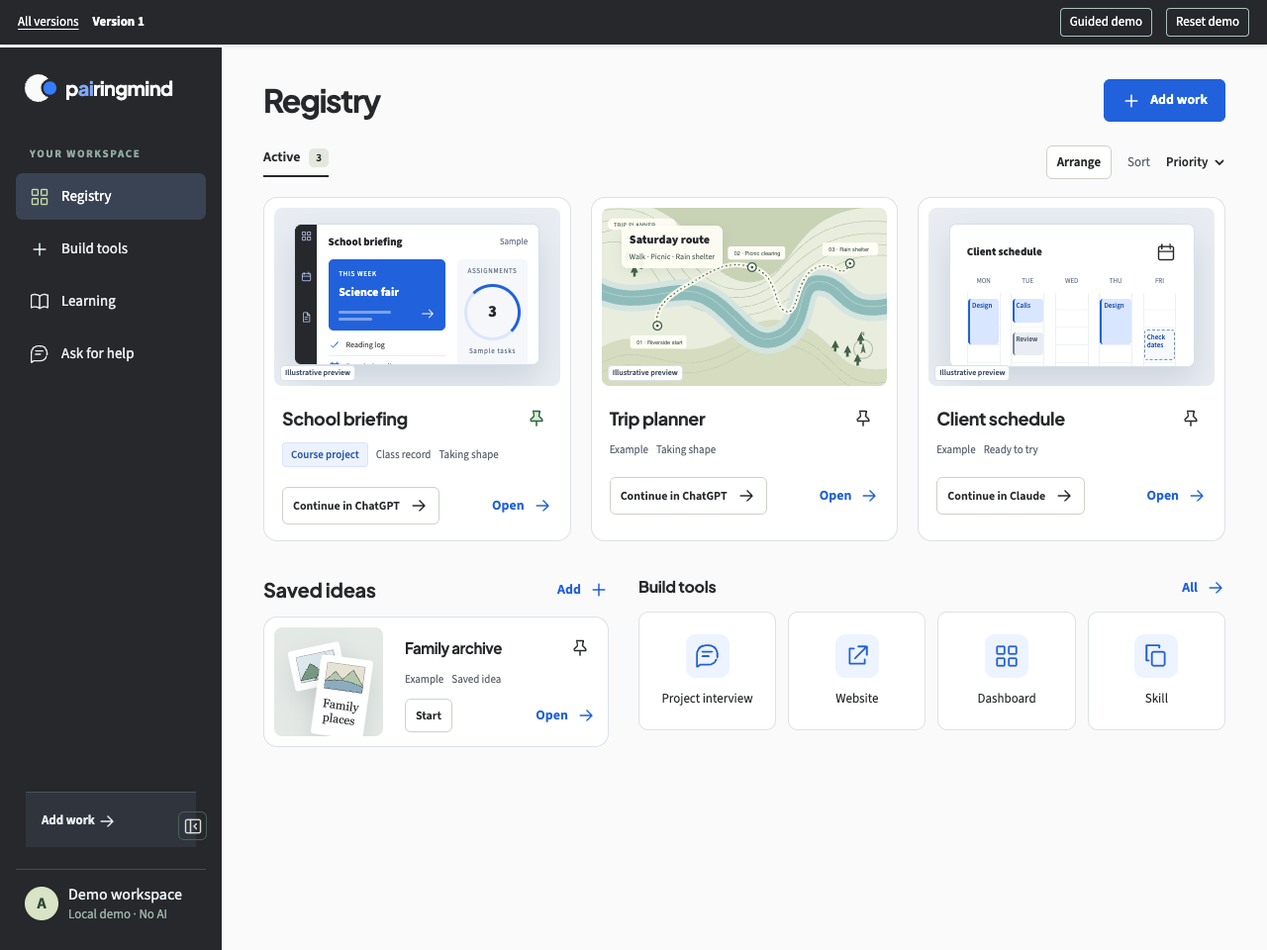
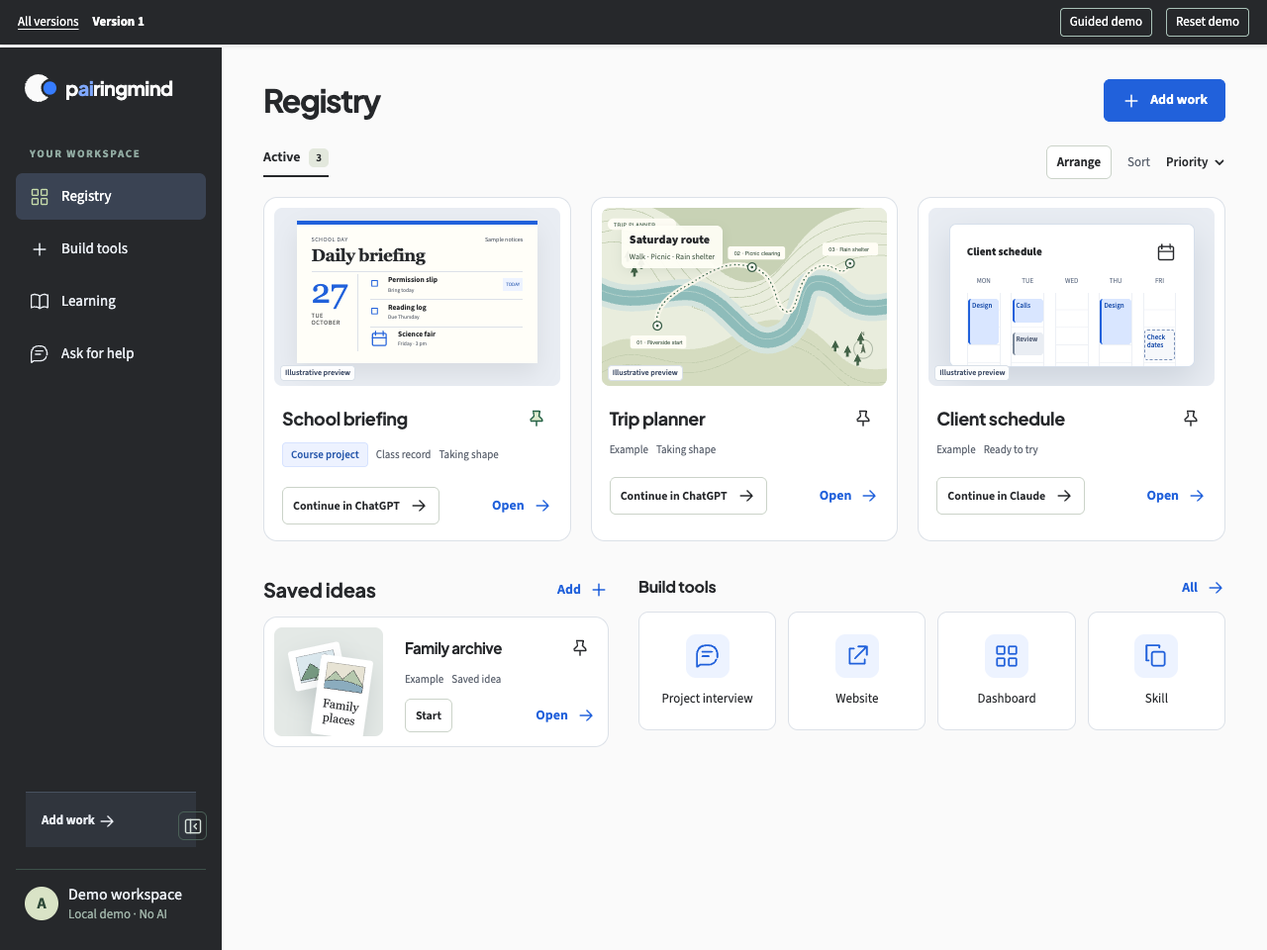
Clarify school preview and add spotlight tour navigation

Changed region(s): [[0.2188, 0.2188, 0.4062, 0.4062], [0.4062, 0.3125, 0.4375, 0.3438], [0.375, 0.3438, 0.4062, 0.375]]

diff --git a/review-tour.js b/review-tour.js
@@ -1,51 +1,106 @@
 'use strict';
 (() => {
  const version=location.pathname.includes('03-independent')?'c':location.pathname.includes('02-saas')?'b':'a';
- const names={a:'Version 1',b:'Version 2',c:'Version 3'};
  const keys={a:'pm-review-a-20261107-v2',b:'pm-review-b-20261107-v2',c:'pm-review-c-20261107-v2'};
- const id='school-briefing'; let step=0, panel=null, selected=null;
+ const id='school-briefing', project='project/'+id;
+ const reduced=matchMedia('(prefers-reduced-motion: reduce)');
+ let step=0,panel=null,selected=null,layer=null,cursor=null,mask=null,run=0,busy=false,frame=0,returnFocus=null;
  const bar=document.createElement('nav');bar.className='review-bar';bar.setAttribute('aria-label','Review versions');
  const home=document.createElement('a');home.href='../';home.textContent='All versions';bar.append(home);
- const name=document.createElement('strong');name.textContent=names[version];bar.append(name);
+ const name=document.createElement('strong');name.textContent={a:'Version 1',b:'Version 2',c:'Version 3'}[version];bar.append(name);
  function control(label,fn){const b=document.createElement('button');b.type='button';b.textContent=label;b.addEventListener('click',fn);return b;}
- bar.append(control('Guided demo',()=>{step=0;showStep();}),control('Reset demo',()=>{if(confirm('Reset this version? Local edits will be removed.')){localStorage.removeItem(keys[version]);location.href=location.pathname+'#projects';}}));document.body.append(bar);
+ const launch=control('Guided demo',()=>start());
+ bar.append(launch,control('Reset demo',()=>{if(confirm('Reset this version? Local edits will be removed.')){localStorage.removeItem(keys[version]);location.href=location.pathname+'#projects';}}));document.body.append(bar);
  const steps=[
   {title:'Registry',text:'Open the school briefing. The other entries are fictional examples.',route:'projects',target:version==='c'?'.selected-work':'[data-project-id="school-briefing"]'},
-  {title:'Preview & status',text:'The preview is illustrative. Design recorded; live data unverified.',route:'project/'+id,target:'.work-preview'},
-  {title:'Build tools',text:'Choose an approach. Copy its instructions into your AI.',route:version==='c'?'project/'+id:'tools/'+id+'/dashboard',action:version==='c'?'help':null,target:version==='c'?'#ways-help':'.build-heading'},
-  {title:'Continue',text:'Copy context, open your AI, then paste. Nothing syncs automatically.',route:version==='c'?'project/'+id:'continue/'+id,action:version==='c'?'resume':null,target:version==='c'?'#dialog':'.page-narrow'},
-  {title:'Review an update',text:'Fictional exercise. Edit, reject or accept it yourself.',route:'project/'+id,action:'demo-update',target:'#dialog'},
-  {title:'History',text:'Only accepted changes enter the saved record.',route:version==='b'?'project/'+id+'/activity':'project/'+id,action:'history',target:version==='b'?'.project-activity':version==='c'?'#main':'.history-fold'},
-  {title:'Learning',text:'Optional practice. No lesson tracking is connected.',route:version==='c'?'learning':'learn/'+id,target:'#main'},
-  {title:'Export',text:'Download the record, or return to compare the other versions.',route:'project/'+id,target:version==='c'?'[data-action="export"]':'[data-act="export"]'}
+  {title:'Preview & status',text:'The preview is illustrative. Design recorded; live data unverified.',route:project,target:'.work-preview'},
+  {title:'Build tools',text:'Choose an approach. Copy its instructions into your AI.',route:version==='c'?project:'tools/'+id+'/dashboard',action:version==='c'?'help':null,target:version==='c'?'#ways-help':'.form-panel'},
+  {title:'Continue',text:'Copy context, open your AI, then paste. Nothing syncs automatically.',route:version==='c'?project:'continue/'+id,action:version==='c'?'resume':null,target:version==='c'?'#dialog':'.page-narrow'},
+  {title:'Review an update',text:'Fictional exercise. Edit, reject or accept it yourself.',route:project,action:'demo-update',target:'#dialog'},
+  {title:'History',text:'Only accepted changes enter the saved record.',route:version==='b'?project+'/activity':project,action:'history',target:version==='b'?'.project-activity':version==='c'?'.record-tools':'.history-fold'},
+  {title:'Learning',text:'Optional practice. No lesson tracking is connected.',route:version==='c'?'learning':'learn/'+id,target:version==='c'?'.practice-list':'.practice-steps'},
+  {title:'Export',text:'Download the record, or return to compare the other versions.',route:version==='b'?project+'/record':project,target:version==='c'?'[data-action="export"]':'[data-act="export"]'}
  ];
- function end(){if(panel)panel.remove();panel=null;if(selected)selected.classList.remove('tour-target');selected=null;}
- function closeAppDialog(){const d=document.querySelector('#dialog');if(d?.open){const close=d.querySelector('[data-act="close-dialog"],[data-action="close"]');if(close)close.click();else d.close();}}
- function appClick(selector){const b=document.querySelector(selector);if(b)b.click();return b;}
- function fill(selector,value){const f=document.querySelector(selector);if(f){f.value=value;f.dispatchEvent(new Event('input',{bubbles:true}));}}
- function showStep(){
-  if(panel)panel.remove();if(selected)selected.classList.remove('tour-target');closeAppDialog();const s=steps[step];location.hash=s.route;
-  panel=document.createElement('aside');panel.className='review-tour';panel.setAttribute('aria-label','Guided demo');
-  const top=document.createElement('div');top.className='tour-top';const count=document.createElement('span');count.textContent=`Step ${step+1} of ${steps.length}`;top.append(count);
-  const fold=control('Minimize',()=>{const collapsed=panel.classList.toggle('collapsed');fold.textContent=collapsed?'Expand':'Minimize';});fold.className='tour-close';top.append(fold);const exit=control('Close',end);exit.className='tour-close';top.append(exit);panel.append(top);
-  const body=document.createElement('div');body.className='tour-body';const h=document.createElement('h2');h.textContent=s.title;const p=document.createElement('p');p.textContent=s.text;body.append(h,p);const controls=document.createElement('div');controls.className='tour-controls';const back=control('Back',()=>{step--;showStep();});back.disabled=step===0;const next=control(step===steps.length-1?'Finish demo':'Next',()=>{if(step===steps.length-1)end();else{step++;showStep();}});next.className='primary';controls.append(back,next);body.append(controls);panel.append(body);document.body.append(panel);
-  setTimeout(()=>{
-   if(s.action==='help')appClick('[data-action="quick-help"]');
-   if(s.action==='resume')appClick('[data-action="resume"]');
-   if(s.action==='demo-update'){
-    if(version==='c'){
-     appClick('[data-action="review"]')||appClick('[data-action="record"]');
-     if(document.querySelector('#record-result')){fill('#record-result',window.REVIEW_SAMPLE.demoDraft.result);fill('#record-next',window.REVIEW_SAMPLE.demoDraft.next);document.querySelector('#record-form')?.requestSubmit();}
-    }else{appClick('[data-act="update"]');fill('#result',window.REVIEW_SAMPLE.demoDraft.result);fill('#next-action',window.REVIEW_SAMPLE.demoDraft.next);}
-   }
-   if(s.action==='history'){
-    if(version==='c')appClick('[data-action="tab"][data-id="history"]');
-    if(version==='a'){const h=document.querySelector('.history-fold');if(h)h.open=true;}
-   }
-   const modal=document.querySelector('#dialog');if(modal?.open&&panel)modal.append(panel);
-   selected=document.querySelector(s.target);if(selected&&!selected.matches('dialog')){selected.classList.add('tour-target');selected.scrollIntoView({block:'center',behavior:'instant'});}
-  },100);
+ const pause=ms=>new Promise(resolve=>setTimeout(resolve,ms));
+ const visible=e=>e&&e.getClientRects().length&&getComputedStyle(e).visibility!=='hidden';
+ const find=selector=>Array.from(document.querySelectorAll(selector)).find(visible);
+ function clearTarget(){selected?.classList.remove('tour-target');selected=null;}
+ function end(){run++;busy=false;cancelAnimationFrame(frame);clearTarget();panel?.remove();layer?.remove();panel=layer=cursor=mask=null;document.body.classList.remove('tour-running');if(returnFocus?.isConnected)returnFocus.focus({preventScroll:true});}
+ function hostLayers(){if(!panel)return;const d=document.querySelector('#dialog'),host=d?.open?d:document.body;for(const el of [layer,panel])if(el&&el.parentNode!==host)host.append(el);}
+ function drawSpotlight(){if(!layer||!mask)return;const w=innerWidth,h=innerHeight;let hole='';if(selected?.isConnected&&visible(selected)){const r=selected.getBoundingClientRect(),x=Math.max(4,r.left-7),y=Math.max(4,r.top-7),right=Math.min(w-4,r.right+7),bottom=Math.min(h-4,r.bottom+7);if(right>x&&bottom>y)hole=` M${x} ${y}H${right}V${bottom}H${x}Z`;}
+  mask.setAttribute('d',`M0 0H${w}V${h}H0Z${hole}`);
  }
- const appDialog=document.querySelector('#dialog');if(appDialog)new MutationObserver(()=>{if(!panel)return;const host=appDialog.open?appDialog:document.body;if(panel.parentNode!==host)host.append(panel);}).observe(appDialog,{attributes:true,attributeFilter:['open'],childList:true});
- if(new URLSearchParams(location.search).get('tour')==='1')showStep();
+ function scheduleSpotlight(){cancelAnimationFrame(frame);frame=requestAnimationFrame(drawSpotlight);}
+ function focusTarget(el){clearTarget();selected=el;if(el&&!el.matches('dialog'))el.classList.add('tour-target');drawSpotlight();}
+ function positionPanel(el){if(!panel)return;panel.style.top='';panel.style.bottom='16px';panel.style.left='';panel.style.right='16px';if(!el)return;const r=el.getBoundingClientRect(),ph=panel.getBoundingClientRect().height;
+  // Keep the instruction card away from a small control near the bottom.
+  if(r.top>innerHeight-ph-40&&r.height<innerHeight/2){panel.style.bottom='auto';panel.style.top='80px';}
+  if(innerWidth>800&&r.left>innerWidth/2){panel.style.right='auto';panel.style.left='16px';}
+ }
+ async function clickVisible(selector,token){
+  let el=find(selector);if(!el){const hidden=document.querySelector(selector);if(hidden){const parents=[];for(let p=hidden.parentElement;p;p=p.parentElement)if(p.matches('details:not([open])'))parents.unshift(p);for(const p of parents)await clickVisible('summary[data-tour-reveal="'+markSummary(p)+'"]',token);el=find(selector);}}
+  if(!el||token!==run)return false;
+  el.scrollIntoView({block:'center',behavior:'instant'});await pause(80);if(token!==run)return false;
+  hostLayers();focusTarget(el);positionPanel(el);const r=el.getBoundingClientRect(),x=r.left+r.width/2,y=r.top+r.height/2;
+  panel.querySelector('.tour-progress').textContent='Opening '+(el.getAttribute('aria-label')||el.textContent.trim()||'section');
+  cursor.hidden=false;cursor.classList.remove('clicking');cursor.style.transform=`translate(${Math.max(12,x-65)}px,${Math.min(innerHeight-30,y+55)}px)`;
+  await pause(30);if(token!==run)return false;
+  cursor.style.transform=`translate(${x}px,${y}px)`;
+  await pause(reduced.matches?100:500);if(token!==run)return false;
+  cursor.classList.add('clicking');await pause(reduced.matches?100:300);if(token!==run)return false;
+  // Only same-page navigation and explicitly selected local controls enter here.
+  el.click();cursor.hidden=true;await pause(120);return token===run;
+ }
+ let revealId=0;
+ function markSummary(details){const s=details.querySelector(':scope > summary');if(!s.dataset.tourReveal)s.dataset.tourReveal=String(++revealId);return s.dataset.tourReveal;}
+ async function navigate(route,token){
+  if(location.hash==='#'+route)return;
+  const selector='a[href="#'+route+'"]';
+  if(await clickVisible(selector,token))return;
+  if(token!==run)return;
+  // Tool pages have a breadcrumb back to the record; every app has Registry navigation.
+  if(route!==project&&route!=='projects'&&location.hash!=='#'+project)await navigate(project,token);
+  if(await clickVisible(selector,token))return;
+  if(token!==run)return;
+  if(route===project){await clickVisible('a[href="#projects"]',token);if(await clickVisible(selector,token))return;}
+  if(token===run){location.hash=route;await pause(120);}
+ }
+ function fill(selector,value){const f=document.querySelector(selector);if(f){f.value=value;f.dispatchEvent(new Event('input',{bubbles:true}));}}
+ function makePanel(){
+  panel=document.createElement('aside');panel.className='review-tour';panel.setAttribute('aria-label','Guided demo');
+  const top=document.createElement('div');top.className='tour-top';const count=document.createElement('span');count.className='tour-count';top.append(count);
+  const fold=control('Minimize',()=>{const collapsed=panel.classList.toggle('collapsed');fold.textContent=collapsed?'Expand':'Minimize';layer.hidden=collapsed;});fold.className='tour-close';top.append(fold);const exit=control('Close',end);exit.className='tour-close';top.append(exit);panel.append(top);
+  const body=document.createElement('div');body.className='tour-body';body.innerHTML='<h2 tabindex="-1"></h2><p></p><span class="tour-progress" role="status" aria-live="polite"></span>';
+  const controls=document.createElement('div');controls.className='tour-controls';const back=control('Back',()=>{if(!busy)showStep(step-1);});back.dataset.tour='back';const next=control('Next',()=>{if(!busy){if(step===steps.length-1)end();else showStep(step+1);}});next.dataset.tour='next';next.className='primary';controls.append(back,next);body.append(controls);panel.append(body);
+  layer=document.createElement('div');layer.className='tour-spotlight';layer.setAttribute('aria-hidden','true');layer.innerHTML='<svg class="tour-shade" width="100%" height="100%"><path fill-rule="evenodd"></path></svg><span class="tour-cursor" hidden><svg viewBox="0 0 28 34"><path d="M3 2v26l7-7 5 11 5-2-5-11h10Z"/></svg></span>';mask=layer.querySelector('path');cursor=layer.querySelector('.tour-cursor');hostLayers();
+ }
+ async function showStep(index){
+  const token=++run;busy=true;step=index;const s=steps[step];clearTarget();panel.classList.remove('collapsed');layer.hidden=false;panel.setAttribute('aria-busy','true');panel.querySelectorAll('[data-tour]').forEach(b=>b.disabled=true);
+  panel.querySelector('.tour-progress').textContent='';
+  const d=document.querySelector('#dialog');if(d?.open){await clickVisible('[data-act="close-dialog"],[data-action="close"]',token);if(token!==run)return;if(d.open)d.close();hostLayers();}
+  await navigate(s.route,token);if(token!==run)return;
+  if(s.action==='help')await clickVisible('[data-action="quick-help"]',token);
+  if(s.action==='resume')await clickVisible('[data-action="resume"]',token);
+  if(s.action==='demo-update'){
+   if(version==='c'){
+    if(find('[data-action="review"]'))await clickVisible('[data-action="review"]',token);
+    else{await clickVisible('[data-action="record"]',token);if(token===run){fill('#record-result',window.REVIEW_SAMPLE.demoDraft.result);fill('#record-next',window.REVIEW_SAMPLE.demoDraft.next);}}
+   }else{await clickVisible('[data-act="update"]',token);if(token===run){fill('#result',window.REVIEW_SAMPLE.demoDraft.result);fill('#next-action',window.REVIEW_SAMPLE.demoDraft.next);}}
+  }
+  if(s.action==='history'){
+   if(version==='c')await clickVisible('[data-action="tab"][data-id="history"]',token);
+   if(version==='a'&&!document.querySelector('.history-fold')?.open)await clickVisible('.history-fold > summary',token);
+  }
+  if(token!==run)return;hostLayers();
+  const target=find(s.target)||find('#main');if(target&&!target.matches('dialog'))target.scrollIntoView({block:'center',behavior:'instant'});
+  panel.querySelector('.tour-count').textContent=`Step ${step+1} of ${steps.length}`;
+  panel.querySelector('h2').textContent=s.title;panel.querySelector('.tour-body > p').textContent=s.text;panel.querySelector('.tour-progress').textContent='';
+  panel.querySelector('[data-tour="back"]').disabled=step===0;const next=panel.querySelector('[data-tour="next"]');next.disabled=false;next.textContent=step===steps.length-1?'Finish demo':'Next';panel.setAttribute('aria-busy','false');busy=false;
+  focusTarget(target);positionPanel(target);panel.querySelector('h2').focus({preventScroll:true});
+ }
+ function start(){end();returnFocus=document.activeElement;document.body.classList.add('tour-running');makePanel();showStep(0);}
+ window.addEventListener('resize',scheduleSpotlight);document.addEventListener('scroll',scheduleSpotlight,true);
+ document.addEventListener('keydown',e=>{if(e.key==='Escape'&&panel){e.preventDefault();end();}},true);
+ const appDialog=document.querySelector('#dialog');if(appDialog)new MutationObserver(()=>{hostLayers();scheduleSpotlight();}).observe(appDialog,{attributes:true,attributeFilter:['open'],childList:true});
+ if(new URLSearchParams(location.search).get('tour')==='1')start();
 })();

diff --git a/preview.css b/preview.css
@@ -1,1 +1,4 @@
-.work-preview{position:relative;display:block;aspect-ratio:16/10;overflow:hidden;border-radius:12px;background:#e9edf3;color:#26282b;isolation:isolate;min-width:0}.work-preview svg{width:20px;height:20px}.preview-label{position:absolute;left:12px;bottom:10px;font:600 10px/1.3 PMSource,system-ui,sans-serif;background:#fffffff0;color:#43516b;padding:4px 7px;border:1px solid #d9e0e8;border-radius:4px;z-index:2}.specimen{position:absolute;background:#fff;box-shadow:0 14px 35px #19304c24;border:1px solid #d6dfeb;overflow:hidden}.school-specimen{inset:9% 7% 12%;border-radius:7px;display:grid;grid-template-columns:9% 1fr}.specimen-rail{background:#26282b;color:#b9d0ff;display:flex;flex-direction:column;align-items:center;gap:15%;padding-top:25%}.specimen-rail svg{width:50%;height:auto}.specimen-body{padding:5%}.specimen-header{display:flex;align-items:center;justify-content:space-between;gap:8px;margin-bottom:5%;font:600 clamp(10px,1.3vw,18px)/1.2 PMSource,system-ui,sans-serif}.specimen-header>span{font-size:9px;font-weight:400;color:#667187}.school-layout{display:grid;grid-template-columns:1.65fr 1fr;gap:6%}.school-feature{background:#2161db;color:#fff;border-radius:5px;padding:9%;position:relative}.school-feature>span,.school-side>span{font-size:7px;letter-spacing:.1em;display:block}.school-feature>strong{font-size:clamp(11px,1.3vw,21px);display:block;margin:5% 0}.school-feature>svg{position:absolute;bottom:10%;right:8%;width:16px}.mock-bars{display:grid;gap:4px;margin-top:10%}.mock-bars i{width:55%;height:3px;background:#ffffff6b;border-radius:2px}.mock-bars i:last-child{width:35%}.school-tasks{display:grid;gap:5px;margin-top:7%}.school-tasks>div{display:flex;align-items:center;gap:6px;font-size:clamp(7px,.85vw,13px);border-bottom:1px solid #e9edf3;padding-bottom:4px}.school-tasks svg{width:12px;height:12px;color:#2161db}.school-side{background:#f5f7fa;padding:10%;border-radius:5px;color:#58677f;text-align:center}.school-side>span{font-size:7px}.mock-ring{aspect-ratio:1;max-width:70px;border:5px solid #dbe6fb;border-top-color:#2161db;border-right-color:#2161db;border-radius:50%;display:grid;place-items:center;margin:14% auto 10%;font:700 22px PMSource,system-ui;color:#26282b}.mock-calendar{display:grid;grid-template-columns:repeat(4,1fr);gap:4px;margin-top:20%}.mock-calendar i{aspect-ratio:1;background:#d9e1ed;border-radius:2px}.mock-calendar i:nth-child(3){background:#2161db}.trip-specimen{height:100%}.trip-specimen>img{width:100%;height:100%;object-fit:cover}.trip-caption{position:absolute;top:10%;left:7%;display:grid;gap:3px;background:#fffef6ed;border-radius:6px;padding:10px 14px;box-shadow:0 3px 12px #2b463817;font:600 16px PMSource,system-ui}.trip-caption>span{font-size:10px;font-weight:400;color:#586b59}.schedule-specimen{inset:9% 7% 11%;border-radius:7px;padding:6%}.schedule-specimen .specimen-header{margin-bottom:7%}.week-grid{display:grid;grid-template-columns:repeat(5,1fr);gap:5%;height:68%}.week-day{min-width:0}.week-day>span{display:block;font-size:7px;color:#6a768b;margin-bottom:7px;text-align:center}.time-grid{height:100%;position:relative;border-inline:1px solid #edf0f5;background:repeating-linear-gradient(to bottom,transparent 0,transparent 22%,#edf0f5 23%,transparent 24%)}.slot{position:absolute;inset:8% 1% auto;background:#d9e6ff;border-left:2px solid #2161db;border-radius:3px;font:600 clamp(6px,.7vw,11px)/1.2 PMSource,system-ui;padding:9% 6%;height:32%;color:#174ba9;overflow:hidden}.slot-long{height:63%}.slot.second{top:54%;background:#e9edf3;color:#536078;border-color:#7a889a}.slot.outlined{border:1px dashed #7990b7;background:#f6f8fb;top:50%;height:43%}.archive-specimen{height:100%;background:#e4e9e6;display:grid;place-items:center}.photo{background:white;padding:7px;box-shadow:0 10px 25px #263a4425;width:48%;border-radius:3px;position:absolute}.photo svg{width:100%;height:auto;display:block}.photo.back{transform:rotate(-12deg);left:15%;top:17%}.photo.front{transform:rotate(8deg);left:38%;top:27%}.photo>span{display:block;text-align:center;font:12px Georgia,serif;padding:8px 0 4px}.custom-specimen{height:100%;display:flex;align-items:center;justify-content:center;flex-direction:column;gap:12px;color:#68758a}.custom-specimen svg{width:52px;height:52px}.custom-specimen>span{font-size:13px}.visual-status{display:flex;align-items:center;gap:10px;font-size:12px;color:#657084;padding:12px 0}.visual-status span{display:flex;align-items:center;gap:6px}.visual-status i{width:9px;height:9px;border:1px solid #8390a3;border-radius:50%;display:block}.visual-status .known{color:#2161db;font-weight:650}.visual-status .known i{background:#2161db;border-color:#2161db}.visual-status b{height:1px;background:#ccd6e6;flex:1;max-width:40px}.work-preview.compact .preview-label{font-size:8px;bottom:5px;left:6px;padding:2px 4px}.work-preview.compact .trip-caption{font-size:12px;padding:6px 8px}.work-preview.compact .trip-caption>span{font-size:8px}.work-preview.compact .specimen-header{font-size:11px}.work-preview.compact .school-feature>strong{font-size:12px}.work-preview.compact .mock-ring{font-size:16px;border-width:3px}.work-preview.compact .school-tasks>div{font-size:8px}.work-preview.compact .slot{font-size:7px}@media(max-width:600px){.specimen-header{font-size:14px}.school-feature>strong{font-size:17px}.school-tasks>div{font-size:11px}.slot{font-size:9px}}
+.work-preview{position:relative;display:block;aspect-ratio:16/10;overflow:hidden;border-radius:12px;background:#e9edf3;color:#26282b;isolation:isolate;min-width:0}.work-preview svg{width:20px;height:20px}.preview-label{position:absolute;left:12px;bottom:10px;font:600 10px/1.3 PMSource,system-ui,sans-serif;background:#fffffff0;color:#43516b;padding:4px 7px;border:1px solid #d9e0e8;border-radius:4px;z-index:2}.specimen{position:absolute;background:#fff;box-shadow:0 14px 35px #19304c24;border:1px solid #d6dfeb;overflow:hidden}.specimen-header{display:flex;align-items:center;justify-content:space-between;gap:8px;margin-bottom:5%;font:600 clamp(10px,1.3vw,18px)/1.2 PMSource,system-ui,sans-serif}.trip-specimen{height:100%}.trip-specimen>img{width:100%;height:100%;object-fit:cover}.trip-caption{position:absolute;top:10%;left:7%;display:grid;gap:3px;background:#fffef6ed;border-radius:6px;padding:10px 14px;box-shadow:0 3px 12px #2b463817;font:600 16px PMSource,system-ui}.trip-caption>span{font-size:10px;font-weight:400;color:#586b59}.schedule-specimen{inset:9% 7% 11%;border-radius:7px;padding:6%}.schedule-specimen .specimen-header{margin-bottom:7%}.week-grid{display:grid;grid-template-columns:repeat(5,1fr);gap:5%;height:68%}.week-day{min-width:0}.week-day>span{display:block;font-size:7px;color:#6a768b;margin-bottom:7px;text-align:center}.time-grid{height:100%;position:relative;border-inline:1px solid #edf0f5;background:repeating-linear-gradient(to bottom,transparent 0,transparent 22%,#edf0f5 23%,transparent 24%)}.slot{position:absolute;inset:8% 1% auto;background:#d9e6ff;border-left:2px solid #2161db;border-radius:3px;font:600 clamp(6px,.7vw,11px)/1.2 PMSource,system-ui;padding:9% 6%;height:32%;color:#174ba9;overflow:hidden}.slot-long{height:63%}.slot.second{top:54%;background:#e9edf3;color:#536078;border-color:#7a889a}.slot.outlined{border:1px dashed #7990b7;background:#f6f8fb;top:50%;height:43%}.archive-specimen{height:100%;background:#e4e9e6;display:grid;place-items:center}.photo{background:white;padding:7px;box-shadow:0 10px 25px #263a4425;width:48%;border-radius:3px;position:absolute}.photo svg{width:100%;height:auto;display:block}.photo.back{transform:rotate(-12deg);left:15%;top:17%}.photo.front{transform:rotate(8deg);left:38%;top:27%}.photo>span{display:block;text-align:center;font:12px Georgia,serif;padding:8px 0 4px}.custom-specimen{height:100%;display:flex;align-items:center;justify-content:center;flex-direction:column;gap:12px;color:#68758a}.custom-specimen svg{width:52px;height:52px}.custom-specimen>span{font-size:13px}.visual-status{display:flex;align-items:center;gap:10px;font-size:12px;color:#657084;padding:12px 0}.visual-status span{display:flex;align-items:center;gap:6px}.visual-status i{width:9px;height:9px;border:1px solid #8390a3;border-radius:50%;display:block}.visual-status .known{color:#2161db;font-weight:650}.visual-status .known i{background:#2161db;border-color:#2161db}.visual-status b{height:1px;background:#ccd6e6;flex:1;max-width:40px}.work-preview.compact .preview-label{font-size:8px;bottom:5px;left:6px;padding:2px 4px}.work-preview.compact .trip-caption{font-size:12px;padding:6px 8px}.work-preview.compact .trip-caption>span{font-size:8px}.work-preview.compact .specimen-header{font-size:11px}.work-preview.compact .school-feature>strong{font-size:12px}.work-preview.compact .mock-ring{font-size:16px;border-width:3px}.work-preview.compact .school-tasks>div{font-size:8px}.work-preview.compact .slot{font-size:7px}@media(max-width:600px){.specimen-header{font-size:14px}.school-feature>strong{font-size:17px}.school-tasks>div{font-size:11px}.slot{font-size:9px}}
+
+.work-preview.school{container-type:inline-size;background:#e9edf3}.school-bulletin{position:absolute;inset:7% 8% 13%;background:#fffef8;color:#26282b;border-top:4px solid #2161db;padding:5% 6%;box-shadow:0 10px 24px #26282b18;display:grid;grid-template-columns:22% 1fr;grid-template-rows:auto auto 1fr;gap:4% 6%;font-family:PMSource,system-ui,sans-serif}.bulletin-heading{grid-column:1/-1;display:flex;justify-content:space-between;font-size:clamp(6px,2cqw,13px);letter-spacing:.08em;color:#5d6470}.bulletin-heading span:last-child{letter-spacing:0}.bulletin-title{grid-column:1/-1;font:600 clamp(16px,6cqw,48px)/1.1 Georgia,serif;letter-spacing:-.03em;padding-bottom:3%;border-bottom:1px solid #dce1e8}.bulletin-date{display:flex;flex-direction:column;border-right:1px solid #dce1e8;line-height:1.1}.bulletin-date b{font:400 clamp(24px,12cqw,80px)/1 Georgia,serif;color:#2161db}.bulletin-date span{font-size:clamp(6px,2.2cqw,16px);letter-spacing:.08em;margin-top:8%}.bulletin-reminders{display:grid;gap:8%;align-content:start;min-width:0}.bulletin-reminder{display:flex;align-items:center;gap:6%;border-bottom:1px solid #dce1e8;padding-bottom:6%}.bulletin-reminders strong{display:block;font-size:clamp(8px,2.8cqw,22px);line-height:1.2}.bulletin-reminders div>span:not(.notice-check):not(.notice-due){display:block;font-size:clamp(6px,2.1cqw,16px);color:#5d6470;margin-top:3%}.notice-check{font-size:clamp(14px,4cqw,30px);color:#2161db}.notice-due{margin-left:auto;font-size:clamp(5px,1.6cqw,12px);color:#174ba9;background:#edf3ff;padding:3px}.bulletin-event{display:flex;gap:6%;align-items:center}.bulletin-event svg{color:#2161db;width:12%;height:auto;flex:none}
+.school-bulletin{padding:4% 5%;gap:2% 6%;grid-template-rows:auto auto minmax(0,1fr);overflow:hidden}.bulletin-reminders{gap:3%}.bulletin-reminder{padding-bottom:3%}.bulletin-reminders strong{font-size:clamp(7px,2.6cqw,22px)}.bulletin-reminders div>span:not(.notice-check):not(.notice-due){font-size:clamp(5px,1.9cqw,16px)}

diff --git a/preview.js b/preview.js
@@ -6,12 +6,12 @@
  const icon=n=>'<svg viewBox="0 0 24 24" fill="none" stroke="currentColor" stroke-width="1.6" aria-hidden="true">'+glyph(n)+'</svg>';
  function kind(p){const id=typeof p==='string'?p:p.id;return id==='school-briefing'?'school':['weekend','field-guide'].includes(id)?'trip':['studio','studio-week'].includes(id)?'schedule':['atlas','memory-atlas'].includes(id)?'archive':'custom';}
  function preview(p,options={}){const k=kind(p),compact=options.compact?' compact':'';let body='';
- if(k==='school')body='<div class="specimen school-specimen"><div class="specimen-rail">'+icon('grid')+icon('calendar')+icon('file')+'</div><div class="specimen-body"><div class="specimen-header"><strong>School briefing</strong><span>Sample</span></div><div class="school-layout"><div class="school-main"><div class="school-feature"><span>THIS WEEK</span><strong>Science fair</strong><div class="mock-bars"><i></i><i></i></div>'+icon('arrow')+'</div><div class="school-tasks"><div>'+icon('check')+'Reading log</div><div>'+icon('calendar')+'Permission slip</div></div></div><div class="school-side"><span>ASSIGNMENTS</span><div class="mock-ring"><b>3</b></div><span>Sample tasks</span><div class="mock-calendar"><i></i><i></i><i></i><i></i><i></i><i></i><i></i><i></i><i></i><i></i><i></i><i></i></div></div></div></div></div>';
+ if(k==='school')body='<div class="school-bulletin"><div class="bulletin-heading"><span>SCHOOL DAY</span><span>Sample notices</span></div><div class="bulletin-title">Daily briefing</div><div class="bulletin-date"><b>27</b><span>TUE<br>OCTOBER</span></div><div class="bulletin-reminders"><div class="bulletin-reminder"><span class="notice-check">□</span><div><strong>Permission slip</strong><span>Bring today</span></div><span class="notice-due">TODAY</span></div><div class="bulletin-reminder"><span class="notice-check">□</span><div><strong>Reading log</strong><span>Due Thursday</span></div></div><div class="bulletin-event">'+icon('calendar')+'<div><strong>Science fair</strong><span>Friday · 3 pm</span></div></div></div></div>';
  if(k==='trip')body='<div class="trip-specimen"><img src="'+new URL('01-preserved/assets/weekend-map.svg',base).href+'" alt=""><div class="trip-caption"><strong>Saturday route</strong><span>Walk · Picnic · Rain shelter</span></div></div>';
  if(k==='schedule')body='<div class="specimen schedule-specimen"><div class="specimen-header"><strong>Client schedule</strong>'+icon('calendar')+'</div><div class="week-grid">'+['MON','TUE','WED','THU','FRI'].map((d,i)=>'<div class="week-day"><span>'+d+'</span><div class="time-grid">'+(i===0?'<b class="slot slot-long">Design</b>':i===1?'<b class="slot">Calls</b><b class="slot second">Review</b>':i===3?'<b class="slot slot-long">Design</b>':i===4?'<b class="slot outlined">Check dates</b>':'')+'</div></div>').join('')+'</div></div>';
  if(k==='archive')body='<div class="archive-specimen"><div class="photo back"><svg viewBox="0 0 160 110" aria-hidden="true"><path fill="#dce9ef" d="M0 0h160v110H0z"/><circle fill="#fff" cx="120" cy="26" r="14"/><path fill="#789b82" d="m0 100 54-63 65 63z"/><path fill="#a7bda8" d="m57 110 58-57 45 57z"/></svg></div><div class="photo front"><svg viewBox="0 0 160 110" aria-hidden="true"><path fill="#e7e3d4" d="M0 0h160v110H0z"/><path fill="#b5c8ad" d="m0 80 40-45 32 29 40-44 48 60v30H0z"/><path fill="#8bacbe" d="M0 80q80-25 160 6v24H0z"/></svg><span>Family places</span></div></div>';
  if(k==='custom')body='<div class="custom-specimen">'+icon('file')+'<span>No preview</span></div>';
- return '<div class="work-preview '+k+compact+'" role="img" aria-label="'+esc(k==='school'?'Illustrative school dashboard with fictional tasks; not connected to school data.':k==='custom'?'No visual preview has been added.':'Illustrative '+k+' preview using fictional example content.')+'">'+body+'<span class="preview-label">'+(k==='custom'?'Work record':'Illustrative preview')+'</span></div>';
+ return '<div class="work-preview '+k+compact+'" role="img" aria-label="'+esc(k==='school'?'Illustrative school bulletin with fictional reminders; not connected to school data.':k==='custom'?'No visual preview has been added.':'Illustrative '+k+' preview using fictional example content.')+'">'+body+'<span class="preview-label">'+(k==='custom'?'Work record':'Illustrative preview')+'</span></div>';
  }
  function status(p){const k=kind(p);if(k==='school')return '<div class="visual-status" aria-label="Design recorded; live data and testing unverified"><span class="known"><i></i>Design</span><b></b><span><i></i>Data</span><b></b><span><i></i>Test</span></div>';return '';}
  window.RegistryVisual={preview,status,icon};

diff --git a/review-tour.css b/review-tour.css
@@ -1,3 +1,6 @@
 body{padding-top:48px!important}.review-bar{position:fixed;inset:0 0 auto;z-index:1000;min-height:46px;background:#173c32;color:#fff;display:flex;align-items:center;gap:14px;padding:8px 18px;font:13px/1.3 system-ui,sans-serif;box-shadow:0 1px 5px #0002}.review-bar a{color:#fff;text-decoration:underline;text-underline-offset:3px}.review-bar strong{margin-right:auto}.review-bar button{font:inherit;color:#fff;background:transparent;border:1px solid #a9c2b8;padding:5px 9px;border-radius:4px;cursor:pointer}.review-tour{position:fixed;right:20px;bottom:22px;z-index:999;width:350px;max-width:calc(100vw - 24px);background:#fffef8;color:#243c32;border:1px solid #8eaa9e;box-shadow:0 8px 32px #102f3330;border-radius:12px;font:14px/1.5 system-ui,sans-serif;padding:18px}.review-tour h2{font:600 21px/1.2 system-ui,sans-serif;margin:10px 0}.review-tour p{margin:8px 0 16px}.tour-top,.tour-controls{display:flex;align-items:center;gap:8px;justify-content:space-between}.tour-top{font-size:12px;color:#52655a}.review-tour button{font:inherit;cursor:pointer;padding:7px 12px;border:1px solid #849c90;background:#fff;color:#243c32;border-radius:5px}.review-tour button.primary{background:#244438;color:#fff}.review-tour button:disabled{opacity:.45}.tour-close{border:0!important;font-size:12px!important;padding:2px!important}.tour-target{outline:3px solid #b45a33!important;outline-offset:5px;scroll-margin-top:110px}.review-tour.collapsed .tour-body{display:none}.review-bar button:focus-visible,.review-tour button:focus-visible,.review-bar a:focus-visible{outline:3px solid #e9a678;outline-offset:3px}@media(max-width:700px){body{padding-top:70px!important}.review-bar{flex-wrap:wrap;gap:6px 12px;padding:7px 12px}.review-bar strong{font-size:12px}.review-tour{bottom:78px;right:12px;padding:14px;width:310px;max-height:48vh;overflow:auto}.review-tour h2{font-size:18px}.review-tour p{font-size:13px}.review-tour.collapsed{bottom:76px}.tour-target{scroll-margin-top:95px}}@media(min-width:901px){.rail{top:48px!important;height:calc(100vh - 48px)!important}}@media(min-width:768px){.app-sidebar{top:48px!important;height:calc(100vh - 48px)!important}}@media(max-width:767px){.app-topbar{top:70px!important}}
 
 .review-tour{width:290px;padding:16px}.review-tour h2{font-size:18px}.review-tour p{font-size:13px;margin:8px 0 14px}.review-bar{min-height:42px}.tour-controls button{padding:6px 12px}@media(max-width:700px){.review-tour{width:260px;bottom:76px;max-height:34vh}.review-tour h2{font-size:17px}.review-bar{gap:6px 10px}.review-bar strong{margin-right:auto}}
+
+.tour-spotlight{position:fixed;inset:0;z-index:1500;pointer-events:none}.tour-spotlight[hidden]{display:none}.tour-shade{position:absolute;inset:0;overflow:hidden}.tour-shade>path{fill:rgba(14,18,25,.72)}.review-tour{z-index:1600;max-height:calc(100dvh - 100px);overflow:auto}.tour-target{outline:3px solid #2161db!important;outline-offset:5px}.tour-cursor{position:absolute;left:0;top:0;width:28px;height:34px;transition:transform .45s ease;filter:drop-shadow(0 2px 4px #0007)}.tour-cursor[hidden]{display:none}.tour-cursor>svg{width:28px;height:34px;fill:#fff;stroke:#174ba9;stroke-width:2}.tour-cursor:before{content:'';position:absolute;width:36px;height:36px;left:-15px;top:-15px;border:3px solid #2161db;border-radius:50%;background:#ffffff70;opacity:0}.tour-cursor.clicking:before{animation:tour-click .3s ease-out forwards}.tour-progress{display:block;font-size:12px;line-height:1.3;color:#5d6470}.tour-progress:empty{display:none}.review-tour[aria-busy=true] .tour-progress{margin-bottom:12px}.review-tour button:disabled{cursor:not-allowed}.review-tour h2:focus{outline:none}@keyframes tour-click{from{opacity:1;transform:scale(.4)}to{opacity:0;transform:scale(1.5)}}@media(prefers-reduced-motion:reduce){.tour-cursor{transition:none}.tour-cursor.clicking:before{animation:none;opacity:1}}
+.tour-spotlight>.tour-shade{width:100vw!important;height:100dvh!important;max-width:none!important}
